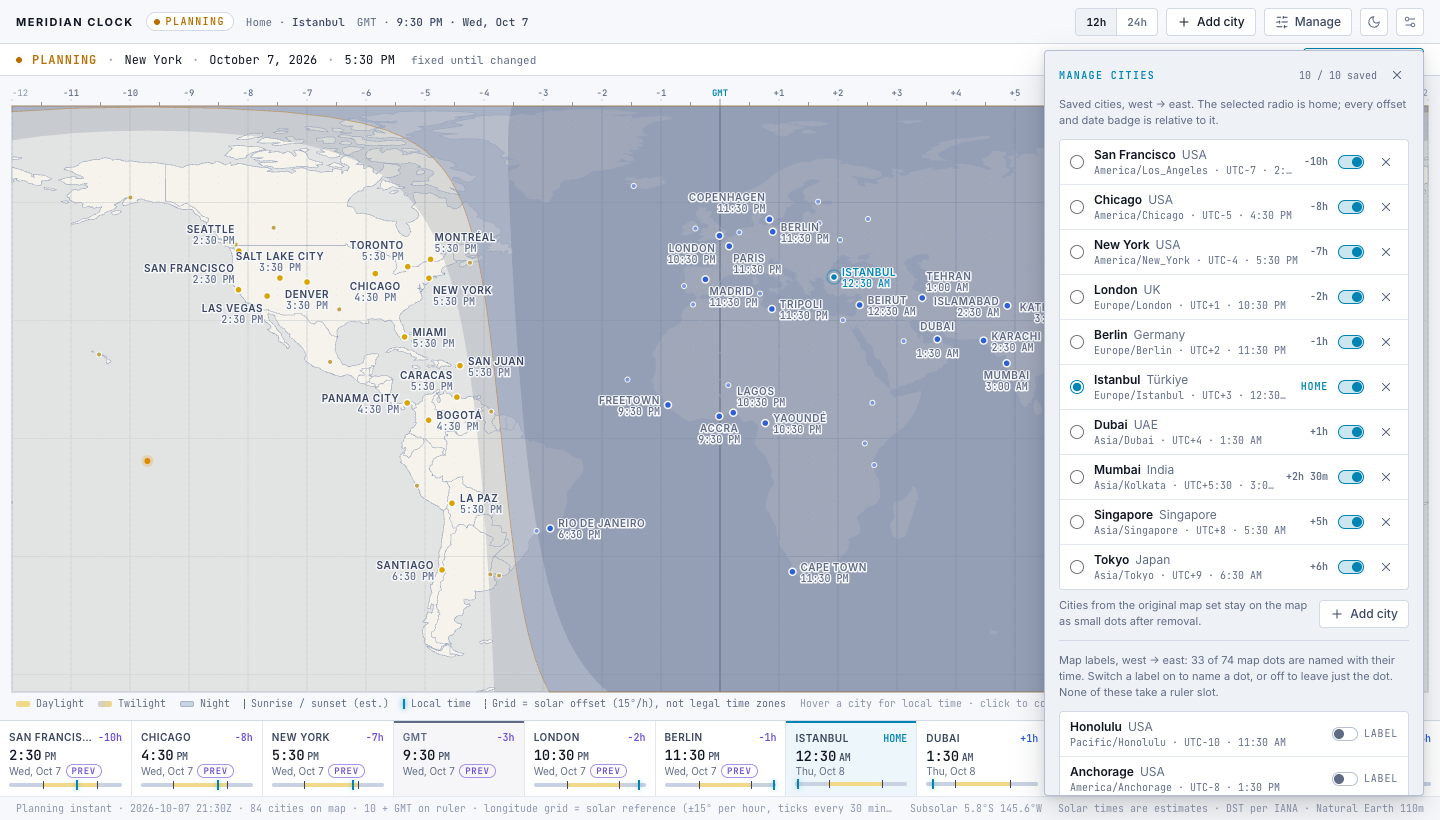
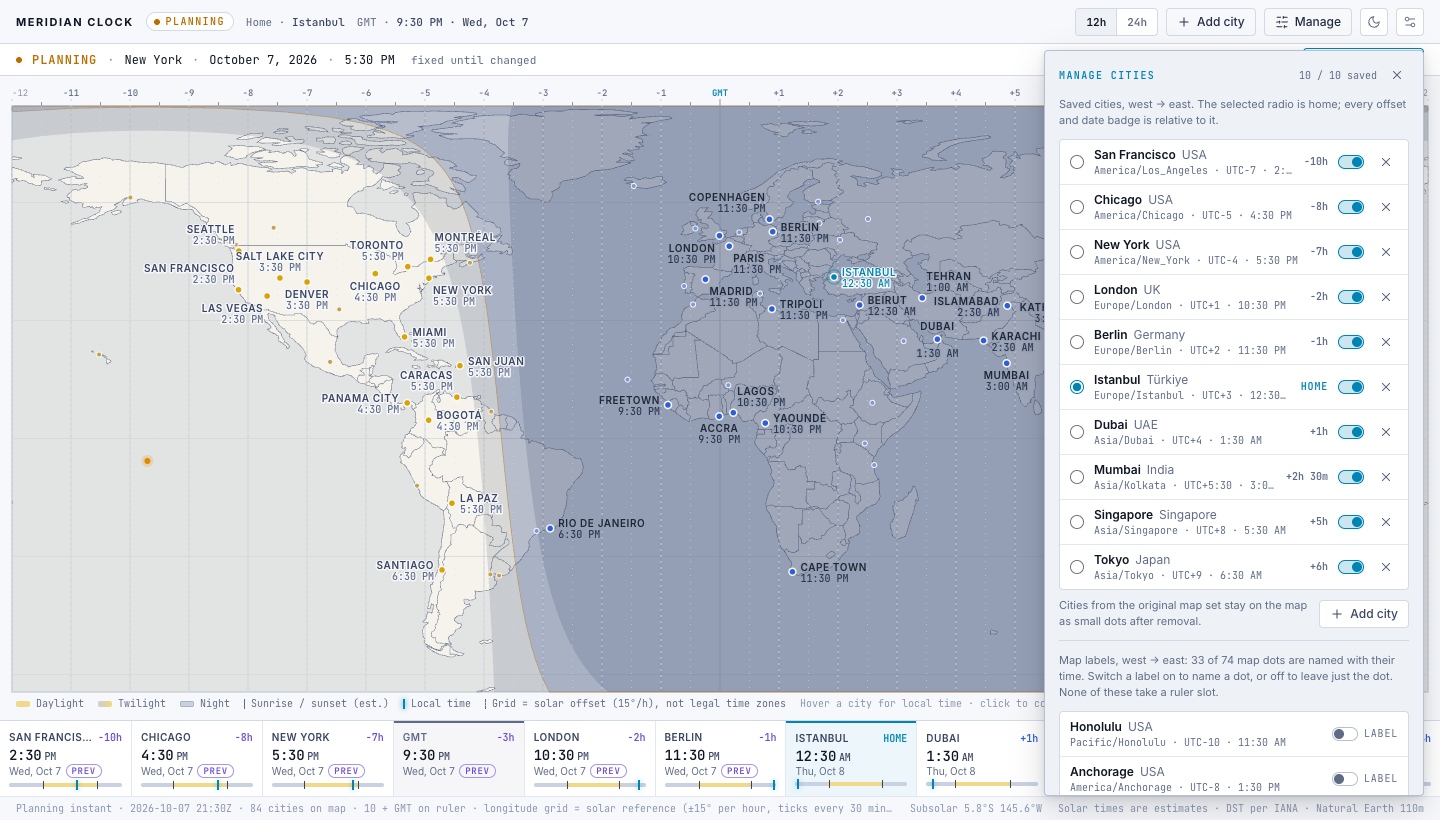
Map readability: light-theme night labels and borders; hour grid above night shading
- Light theme: night-side labels get a matching outline and darker ink; borders are darker and translucent so they show on day and night.
- Hour grid is drawn above the night shading and slightly brighter in the dark theme.

diff --git a/src/components/WorldMap.tsx b/src/components/WorldMap.tsx
@@ -16,8 +16,19 @@ interface Props {
   onApply: (c: PlanChoice) => void; onCancel: () => void;
 }
 
-const Base = memo(function Base({ projection, T, W }: { projection: GeoProjection; T: Palette; W: number }) {
+const Base = memo(function Base({ projection, T }: { projection: GeoProjection; T: Palette }) {
   const path = pathFor(projection);
+  return (
+    <g aria-hidden="true">
+      <path d={path(SPHERE) ?? ''} fill={T.ocean} stroke={T.sphereLine} />
+      <path d={path(LAND) ?? ''} fill={T.land} stroke={T.landLine} strokeWidth={0.6} />
+      <path d={path(GRATICULE) ?? ''} fill="none" stroke={T.grat} strokeWidth={0.8} />
+    </g>
+  );
+});
+
+/** GMT offset grid and its labels; drawn above the night shading so the hour lines stay visible on the night side. */
+const Axis = memo(function Axis({ projection, T, W }: { projection: GeoProjection; T: Palette; W: number }) {
   // The poles sit outside the clip extent when a wide window crops them; the grid then spans the visible map.
   const clip = projection.clipExtent();
   const top = Math.max(projection([0, 90])![1], clip?.[0][1] ?? -Infinity), bot = Math.min(projection([0, -90])![1], clip?.[1][1] ?? Infinity);
@@ -35,15 +46,10 @@ const Base = memo(function Base({ projection, T, W }: { projection: GeoProjectio
     }
   }
   return (
-    <g aria-hidden="true">
-      <path d={path(SPHERE) ?? ''} fill={T.ocean} stroke={T.sphereLine} />
-      <path d={path(LAND) ?? ''} fill={T.land} stroke={T.landLine} strokeWidth={0.6} />
-      <path d={path(GRATICULE) ?? ''} fill="none" stroke={T.grat} strokeWidth={0.8} />
-      <g className="axis">
-        {lines}
-        <text x={12} y={top - 10} fill={T.lblEdge}>−12</text>
-        <text x={W - 12} y={top - 10} textAnchor="end" fill={T.lblEdge}>+12</text>
-      </g>
+    <g aria-hidden="true" className="axis">
+      {lines}
+      <text x={12} y={top - 10} fill={T.lblEdge}>−12</text>
+      <text x={W - 12} y={top - 10} textAnchor="end" fill={T.lblEdge}>+12</text>
     </g>
   );
 });
@@ -100,7 +106,7 @@ export function WorldMap({ model, hour12, T, hoverId, editorId, onHover, onOpen,
     <div className="map" ref={ref} onClick={() => editorId && onCancel()}>
       {projection && night && (
         <svg className="world" role="group" aria-label="World map with day and night shading. The longitude grid shows solar offsets, not legal time-zone boundaries.">
-          <Base projection={projection} T={T} W={W} />
+          <Base projection={projection} T={T} />
           <g aria-hidden="true" data-layer="daynight">
             <path d={night.day ?? ''} fill={T.dayWash} />
             <path d={night.n1 ?? ''} fill={T.night1} />
@@ -109,6 +115,7 @@ export function WorldMap({ model, hour12, T, hoverId, editorId, onHover, onOpen,
             <path d={borders ?? ''} fill="none" stroke={T.border} strokeWidth={0.6} />
             <circle className="sun" cx={night.sx} cy={night.sy} r={3} fill={T.sun} stroke={T.sunRing} strokeWidth={6} />
           </g>
+          <Axis projection={projection} T={T} W={W} />
           <g>
             {drawn.map(v => {
               const [x, y] = pts.get(v.city.id)!, k = slots.get(v.city.id) ?? 'hide';

diff --git a/src/lib/theme.ts b/src/lib/theme.ts
@@ -3,8 +3,8 @@ import type { Theme } from './prefs';
 
 // Map palette objects from the design prototype (THEMES.dark / THEMES.light), unchanged.
 export const THEMES = {
-  dark: { NIGHT: '#1c2742', TWI: '#8a6f4a', GOLD: '#e8d49a', ocean: '#0a0f1c', sphereLine: '#242e47', land: '#1b2440', landLine: '#35425f', border: '#4d5c8080', grat: '#141c2c', gridHalf: '#121a2a', grid: '#1a2133', gridZero: '#35425f', tick: '#35425f', lbl: '#6b7899', lblZero: '#00e5ff', lblEdge: '#4a5570', dayWash: 'rgba(232,212,154,0.05)', night1: 'rgba(5,7,13,0.25)', night2: 'rgba(5,7,13,0.35)', night3: 'rgba(5,7,13,0.3)', term: '#8a6f4a', sun: '#ffb020', sunRing: '#ffb02033', dotStroke: '#0a0f1c', home: '#00e5ff', day: '#e8d49a', dayMinor: '#b3a26f', night: '#5b8dff', nightMinor: '#3a5fb8', diffHome: '#00e5ff', diffNeg: '#a78bfa', diffPos: '#5b8dff', rise: '#ffb020', set: '#a78bfa' },
-  light: { NIGHT: '#c9d2e3', TWI: '#e2cfa0', GOLD: '#f2d98a', ocean: '#dfe6f1', sphereLine: '#b7c0d2', land: '#f4f6fa', landLine: '#9aa6bd', border: '#9aa6bd', grat: '#cfd7e4', gridHalf: '#d6dde9', grid: '#c5cedd', gridZero: '#8b95ad', tick: '#8b95ad', lbl: '#5f6b85', lblZero: '#0084b3', lblEdge: '#8b95ad', dayWash: 'rgba(255,214,102,0.10)', night1: 'rgba(40,55,90,0.14)', night2: 'rgba(40,55,90,0.18)', night3: 'rgba(40,55,90,0.16)', term: '#b8894a', sun: '#e08a00', sunRing: '#e08a0033', dotStroke: '#f7f8fb', home: '#0084b3', day: '#d9a400', dayMinor: '#c4a24a', night: '#2f5fd6', nightMinor: '#7f98dc', diffHome: '#0084b3', diffNeg: '#6d4fd1', diffPos: '#2f5fd6', rise: '#b86e00', set: '#6d4fd1' },
+  dark: { NIGHT: '#1c2742', TWI: '#8a6f4a', GOLD: '#e8d49a', ocean: '#0a0f1c', sphereLine: '#242e47', land: '#1b2440', landLine: '#35425f', border: '#4d5c8080', grat: '#141c2c', gridHalf: '#1c2438', grid: '#2a3550', gridZero: '#35425f', tick: '#35425f', lbl: '#6b7899', lblZero: '#00e5ff', lblEdge: '#4a5570', dayWash: 'rgba(232,212,154,0.05)', night1: 'rgba(5,7,13,0.25)', night2: 'rgba(5,7,13,0.35)', night3: 'rgba(5,7,13,0.3)', term: '#8a6f4a', sun: '#ffb020', sunRing: '#ffb02033', dotStroke: '#0a0f1c', home: '#00e5ff', day: '#e8d49a', dayMinor: '#b3a26f', night: '#5b8dff', nightMinor: '#3a5fb8', diffHome: '#00e5ff', diffNeg: '#a78bfa', diffPos: '#5b8dff', rise: '#ffb020', set: '#a78bfa' },
+  light: { NIGHT: '#c9d2e3', TWI: '#e2cfa0', GOLD: '#f2d98a', ocean: '#dfe6f1', sphereLine: '#b7c0d2', land: '#f4f6fa', landLine: '#9aa6bd', border: '#3c486673', grat: '#cfd7e4', gridHalf: '#d6dde9', grid: '#c5cedd', gridZero: '#8b95ad', tick: '#8b95ad', lbl: '#5f6b85', lblZero: '#0084b3', lblEdge: '#8b95ad', dayWash: 'rgba(255,214,102,0.10)', night1: 'rgba(40,55,90,0.14)', night2: 'rgba(40,55,90,0.18)', night3: 'rgba(40,55,90,0.16)', term: '#b8894a', sun: '#e08a00', sunRing: '#e08a0033', dotStroke: '#f7f8fb', home: '#0084b3', day: '#d9a400', dayMinor: '#c4a24a', night: '#2f5fd6', nightMinor: '#7f98dc', diffHome: '#0084b3', diffNeg: '#6d4fd1', diffPos: '#2f5fd6', rise: '#b86e00', set: '#6d4fd1' },
 } as const;
 export type Palette = { [K in keyof (typeof THEMES)['dark']]: string };
 export const palette = (t: Theme): Palette => THEMES[t];

diff --git a/src/styles.css b/src/styles.css
@@ -95,6 +95,9 @@ input:focus, select:focus { outline: none; border-color: var(--accent-cyan) !imp
 .sunmark:focus-visible circle { stroke: var(--accent-cyan); stroke-width: 1; }
 .city text { font-family: var(--font-sans); font-size: 10px; font-weight: 600; letter-spacing: .06em; text-transform: uppercase; fill: var(--fg-secondary); pointer-events: none; paint-order: stroke; stroke: var(--map-halo); stroke-width: 3px; stroke-linejoin: round; }
 .city.night text { fill: var(--fg-tertiary); }
+/* Light theme: the night side is a mid grey-blue, so night labels get a matching outline and darker ink instead of a white smudge. */
+body.light .city.night:not(.home) text { stroke: rgba(150, 160, 181, .9); fill: #1f2738; }
+body.light .city.night:not(.home) text.time { fill: #2c3650; }
 .city text.time { font-family: var(--font-mono); font-size: 10px; font-weight: 500; letter-spacing: 0; text-transform: none; fill: var(--fg-tertiary); font-variant-numeric: tabular-nums; }
 .city.home text.name { fill: var(--accent-cyan); }
 .city.home text.time { fill: var(--accent-cyan); }
